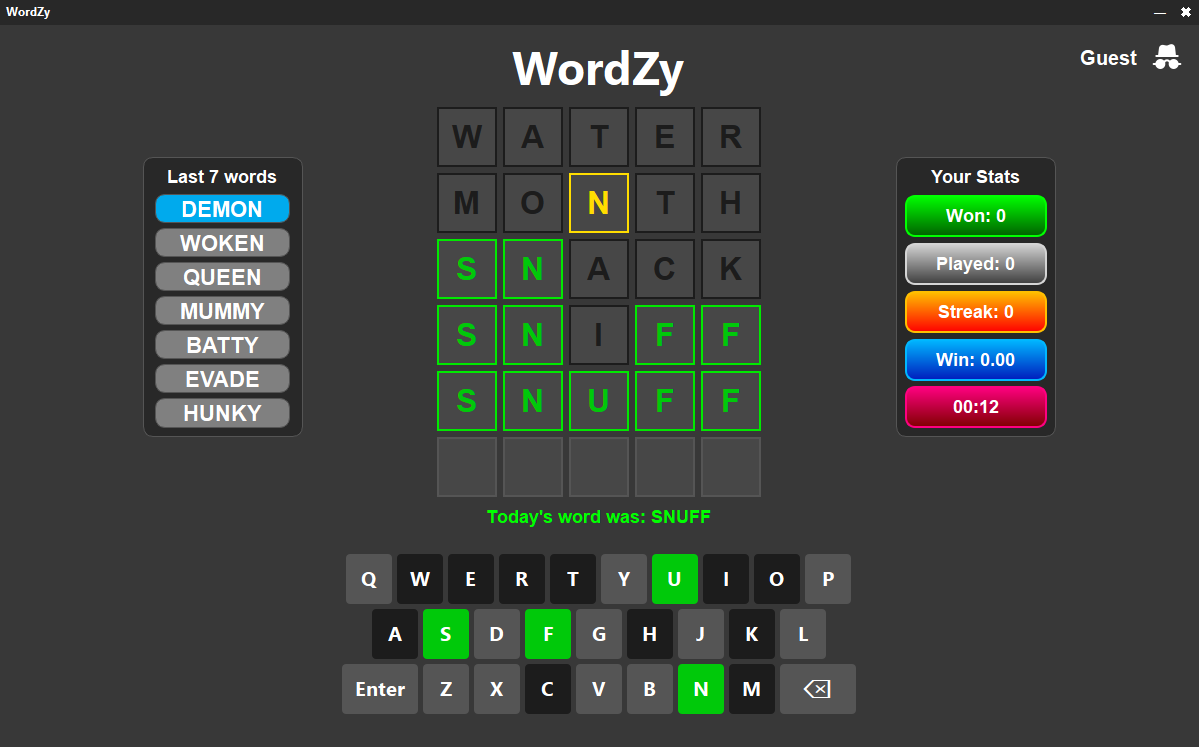
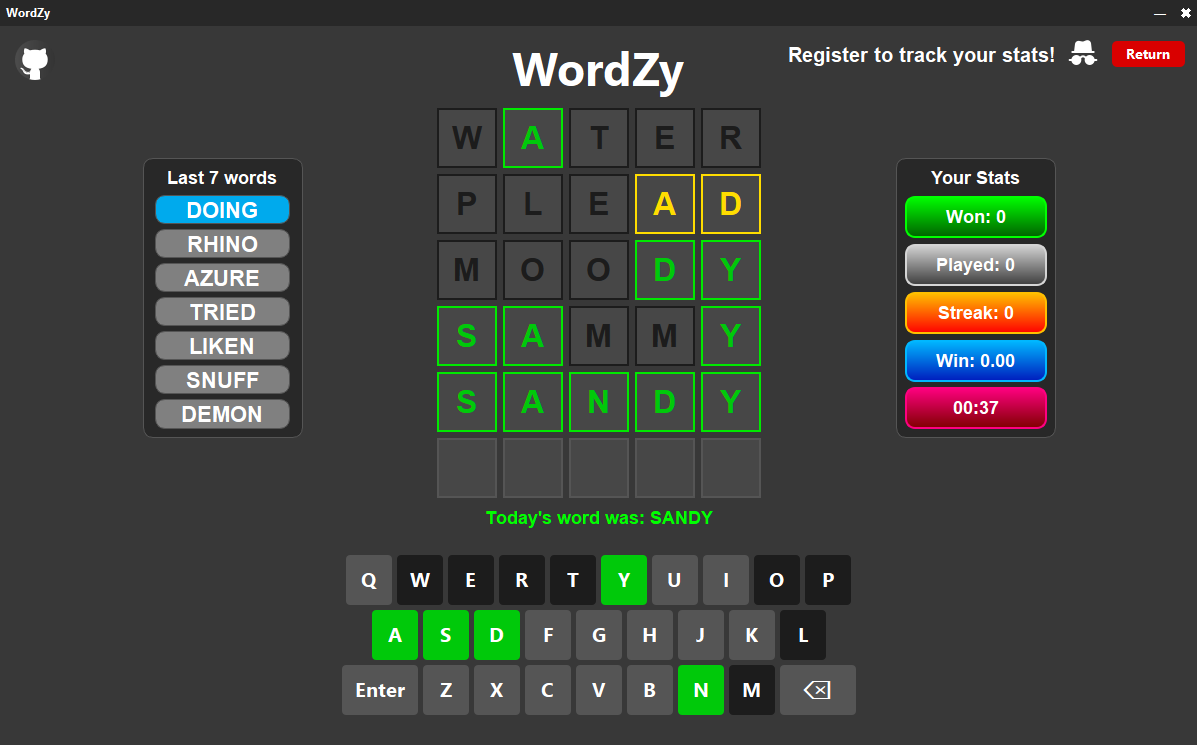
displaying in center & readme changes

diff --git a/main.py b/main.py
@@ -26,7 +26,11 @@ def resourcePath(relative_path):
 class MainWindow(QMainWindow):
     def __init__(self):
         super().__init__()
-        self.setGeometry(390, 140, 1200, 750)
+        width = 1200
+        height = 750
+        self.resize(width, height)
+        screen = QApplication.primaryScreen().availableGeometry()
+        self.move((screen.width() - width) // 2, (screen.height() - height) // 2)
         self.setWindowFlags(Qt.WindowType.FramelessWindowHint | Qt.WindowType.WindowMinimizeButtonHint)
         self.setStyleSheet("""
             QWidget {

diff --git a/README.md b/README.md
@@ -94,5 +94,7 @@ WordZy/
 ├── requirements.txt  
 ├── logo.png          
 ├── start_screen.png  
-├── game_screen.png   
+├── game_screen.png
+├── github_logo.png
+├── .gitignore   
 └── README.md         
